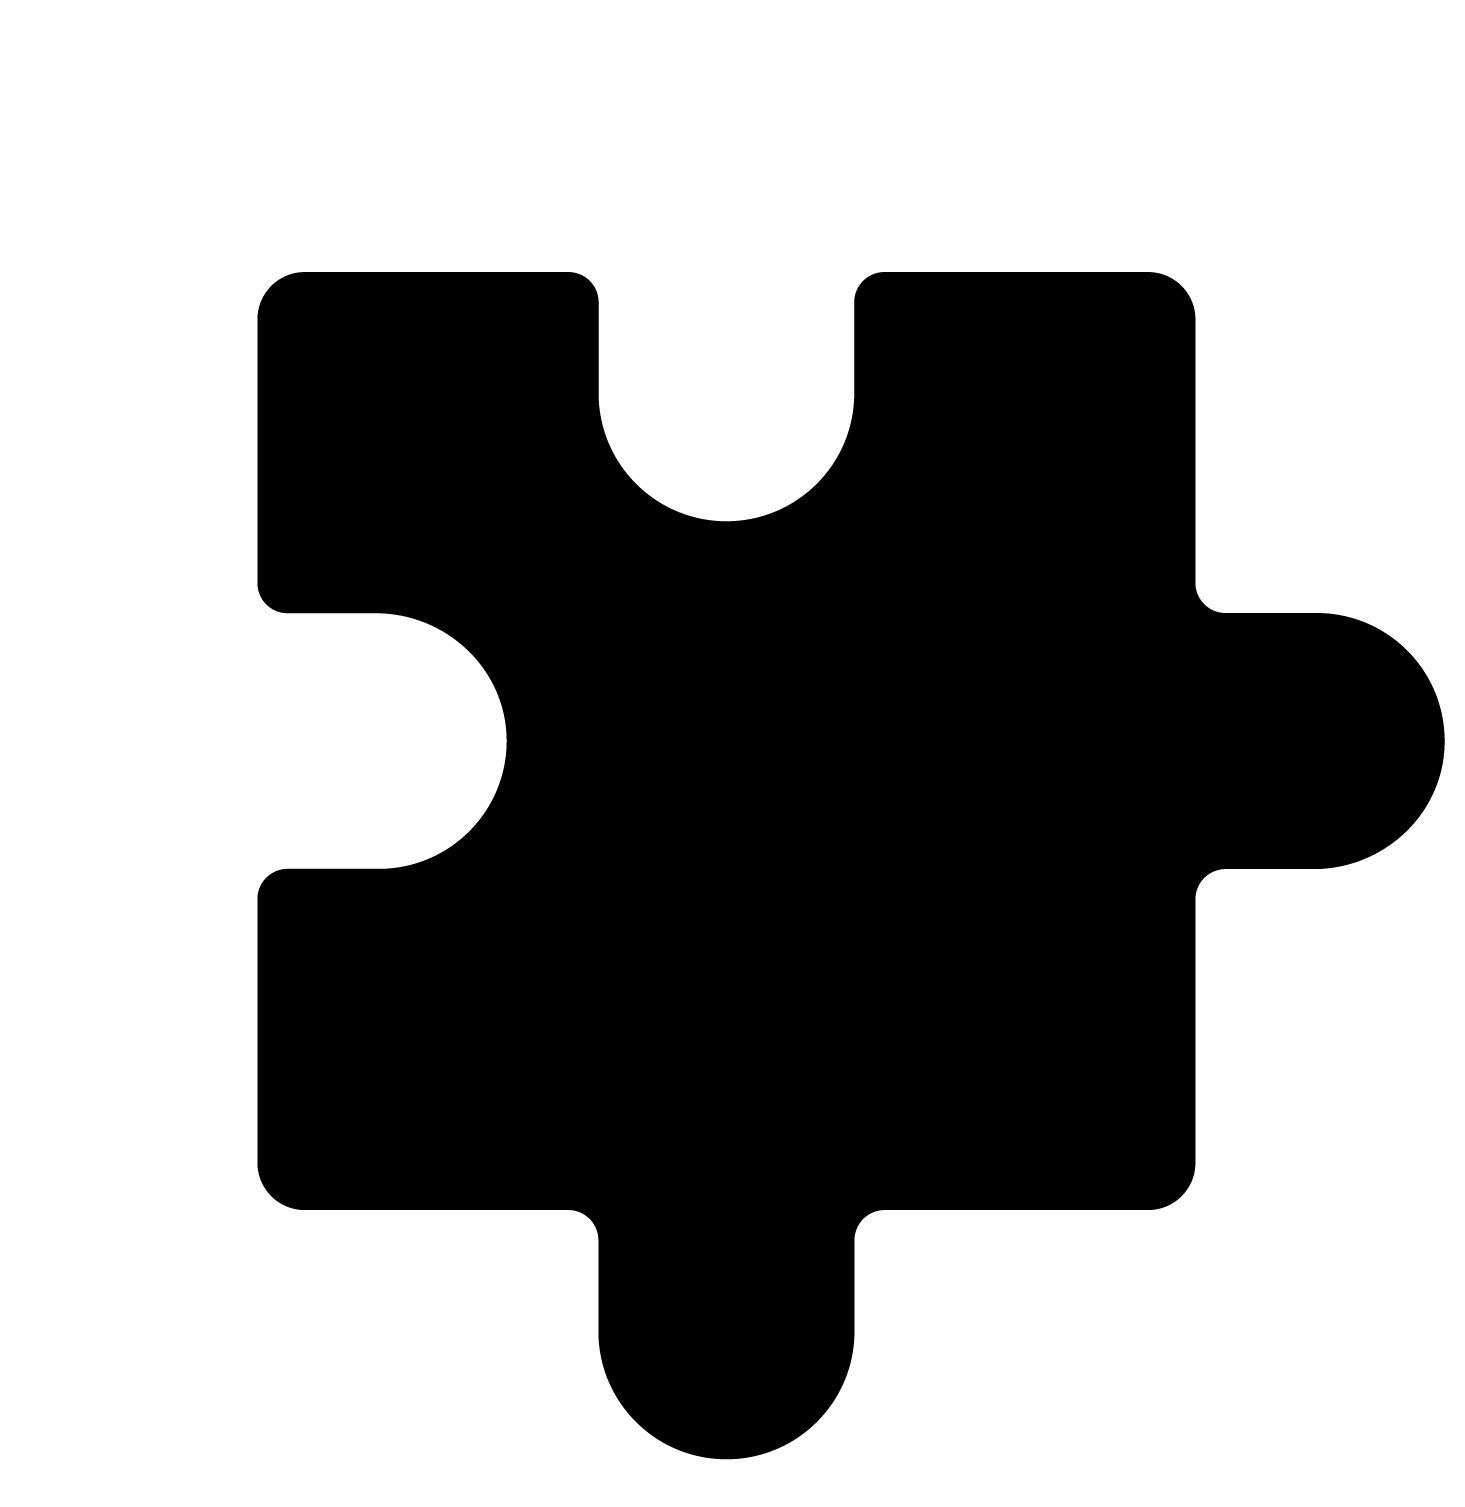
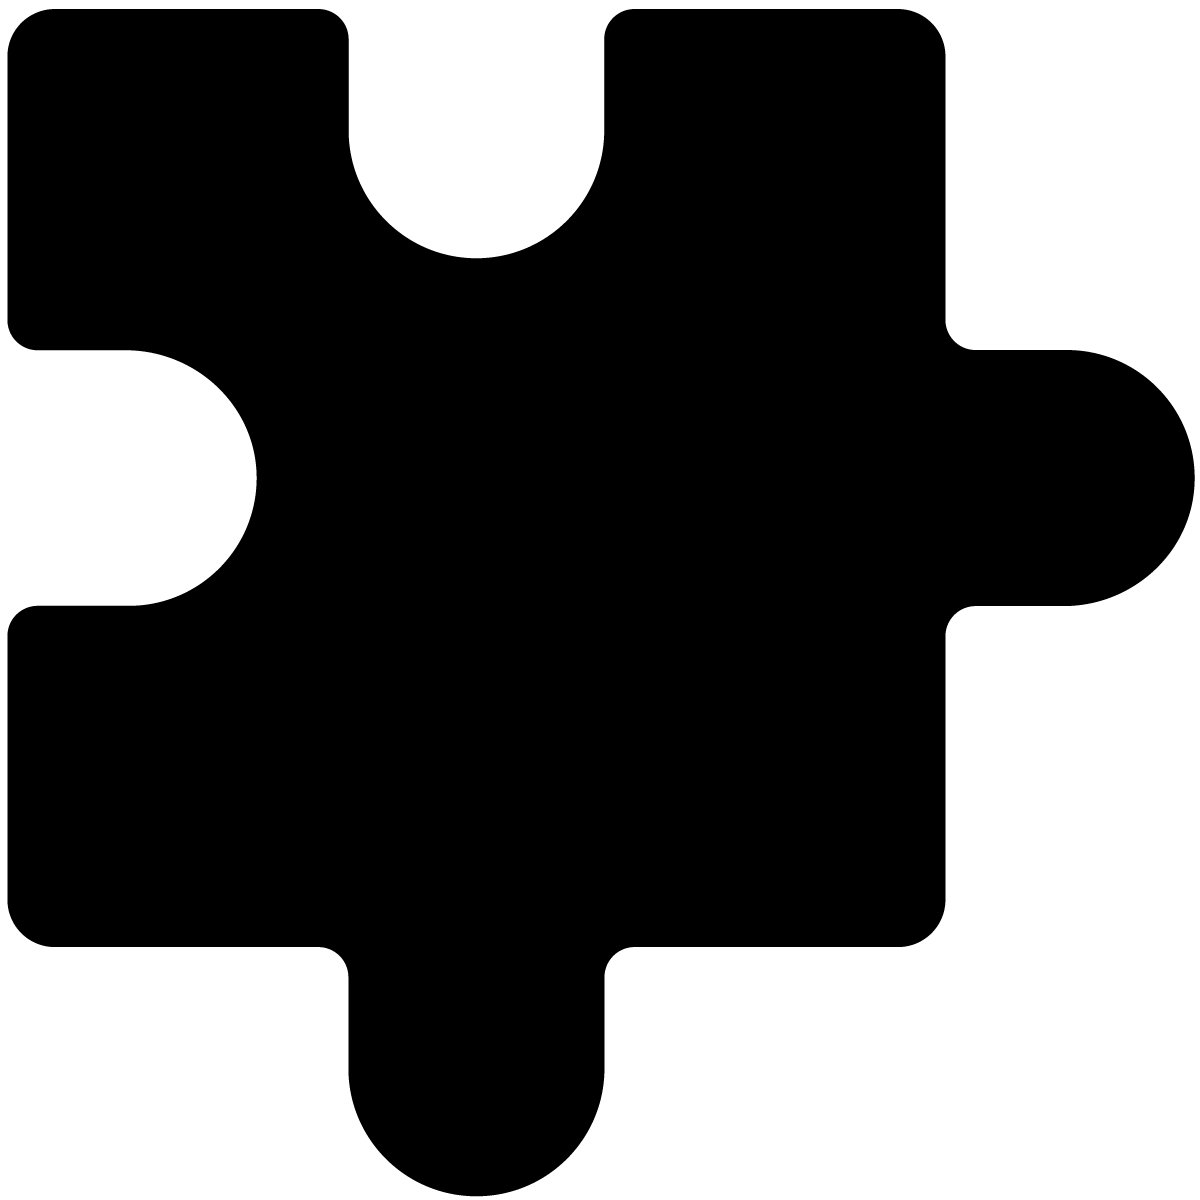
アイコンを変更。 colorpieceをトリミング。 GridView苦戦中。

diff --git a/lib/main.dart b/lib/main.dart
@@ -33,12 +33,19 @@ class MyHomePage extends StatefulWidget {
   const MyHomePage({Key? key, required this.title}) : super(key: key);
   final String title;
   @override
-  State<MyHomePage> createState() => _MyHomePageState();
+  State<MyHomePage> createState() => MyHomePageState();
 }
 
-class _MyHomePageState extends State<MyHomePage> {
-  Onepiece onepiece = Onepiece(Colors.cyan);
-  List puzzuleList = [];
+class MyHomePageState extends State<MyHomePage> {
+  final piecewidth = window.physicalSize.width * 0.14;
+  List<Onepiece> puzzuleList = [
+    Onepiece(Colors.black12),
+    Onepiece(Colors.cyan),
+    Onepiece(Colors.blueAccent),
+    Onepiece(Colors.orangeAccent),
+    Onepiece(Colors.cyan),
+    Onepiece(Colors.greenAccent),
+  ];
   @override
   Widget build(BuildContext context) {
     return Scaffold(
@@ -116,33 +123,8 @@ class _MyHomePageState extends State<MyHomePage> {
         ),
       ),
       body: GridView.count(
+        children: puzzuleList,
         crossAxisCount: 3,
-        crossAxisSpacing: 0,
-        children: [
-          onepiece,
-          onepiece,
-          onepiece,
-          onepiece,
-          onepiece,
-          onepiece,
-          onepiece,
-          onepiece,
-          onepiece,
-          onepiece,
-          onepiece,
-          onepiece,
-          onepiece,
-          onepiece,
-          onepiece,
-          onepiece,
-          onepiece,
-          onepiece,
-          onepiece,
-          onepiece,
-          onepiece,
-          onepiece,
-          onepiece,
-        ],
       ),
       floatingActionButton: MaterialButton(
         shape: const CircleBorder(),
@@ -176,3 +158,53 @@ class _MyHomePageState extends State<MyHomePage> {
     );
   }
 }
+
+// [
+// Positioned(
+// left: 0,
+// width: piecewidth,
+// child: Onepiece(Colors.purple),
+// ),
+// Positioned(
+// left: window.physicalSize.width * 0.092,
+// width: piecewidth,
+// child: Onepiece(Colors.purpleAccent),
+// ),
+// Positioned(
+// left: window.physicalSize.width * 0.185,
+// width: piecewidth,
+// child: Onepiece(Colors.greenAccent),
+// ),
+// Positioned(
+// left: 0,
+// top: piecewidth * 0.66,
+// width: piecewidth,
+// child: Onepiece(Colors.orangeAccent),
+// ),
+// Positioned(
+// left: window.physicalSize.width * 0.092,
+// top: piecewidth * 0.66,
+// width: piecewidth,
+// child: Onepiece(Colors.blueAccent),
+// ),
+// Positioned(
+// left: window.physicalSize.width * 0.185,
+// top: piecewidth * 0.66,
+// width: piecewidth,
+// child: Onepiece(Colors.redAccent),
+// ),
+// ]
+
+/*
+[n行目] top: piecewidth * 0.66(n-1)　　
+商の値でnを振り分ける
+
+[l列目]left: window.physicalSize.width*0.092*(n-1)
+余りの値でlを振り分ける
+
+10→10/3=3余り１
+top: piecewidth*0.66(3-1)
+left:window.physicalSize.width*0.092*(1-1)
+
+
+ */

diff --git a/lib/new_piece_view.dart b/lib/new_piece_view.dart
@@ -3,6 +3,8 @@ import 'package:flutter/rendering.dart';
 import 'dart:ui';
 import 'package:cyclop/cyclop.dart';
 import 'package:simple_shadow/simple_shadow.dart';
+import 'color_piece.dart';
+import 'main.dart';
 
 class NewPieceView extends StatefulWidget {
   const NewPieceView({Key? key}) : super(key: key);
@@ -27,7 +29,7 @@ class _NewPieceViewState extends State<NewPieceView> {
                 child: Image(
                   image: const AssetImage('images/colorpiece.jpg'),
                   color: selectedColor,
-                  height: window.physicalSize.height * 0.08,
+                  height: window.physicalSize.height * 0.065,
                 ),
                 opacity: 0.5,
                 color: Colors.black,

diff --git a/lib/color_piece.dart b/lib/color_piece.dart
@@ -1,15 +1,22 @@
 import 'package:flutter/material.dart';
 import 'package:flutter/cupertino.dart';
-import 'new_piece_view.dart';
+import 'package:simple_shadow/simple_shadow.dart';
+import 'dart:ui';
 
 class Onepiece extends StatelessWidget {
   final Color selectedColor;
-  Onepiece(@required this.selectedColor);
+
+  Onepiece(this.selectedColor, {Key? key}) : super(key: key);
   @override
   Widget build(BuildContext context) {
-    return Image.asset(
-      'images/colorpiece.jpg',
+    return SimpleShadow(
       color: selectedColor,
+      opacity: 0.4,
+      offset: const Offset(4, 4),
+      child: Image.asset(
+        'images/colorpiece.jpg',
+        color: selectedColor,
+      ),
     );
   }
 }
